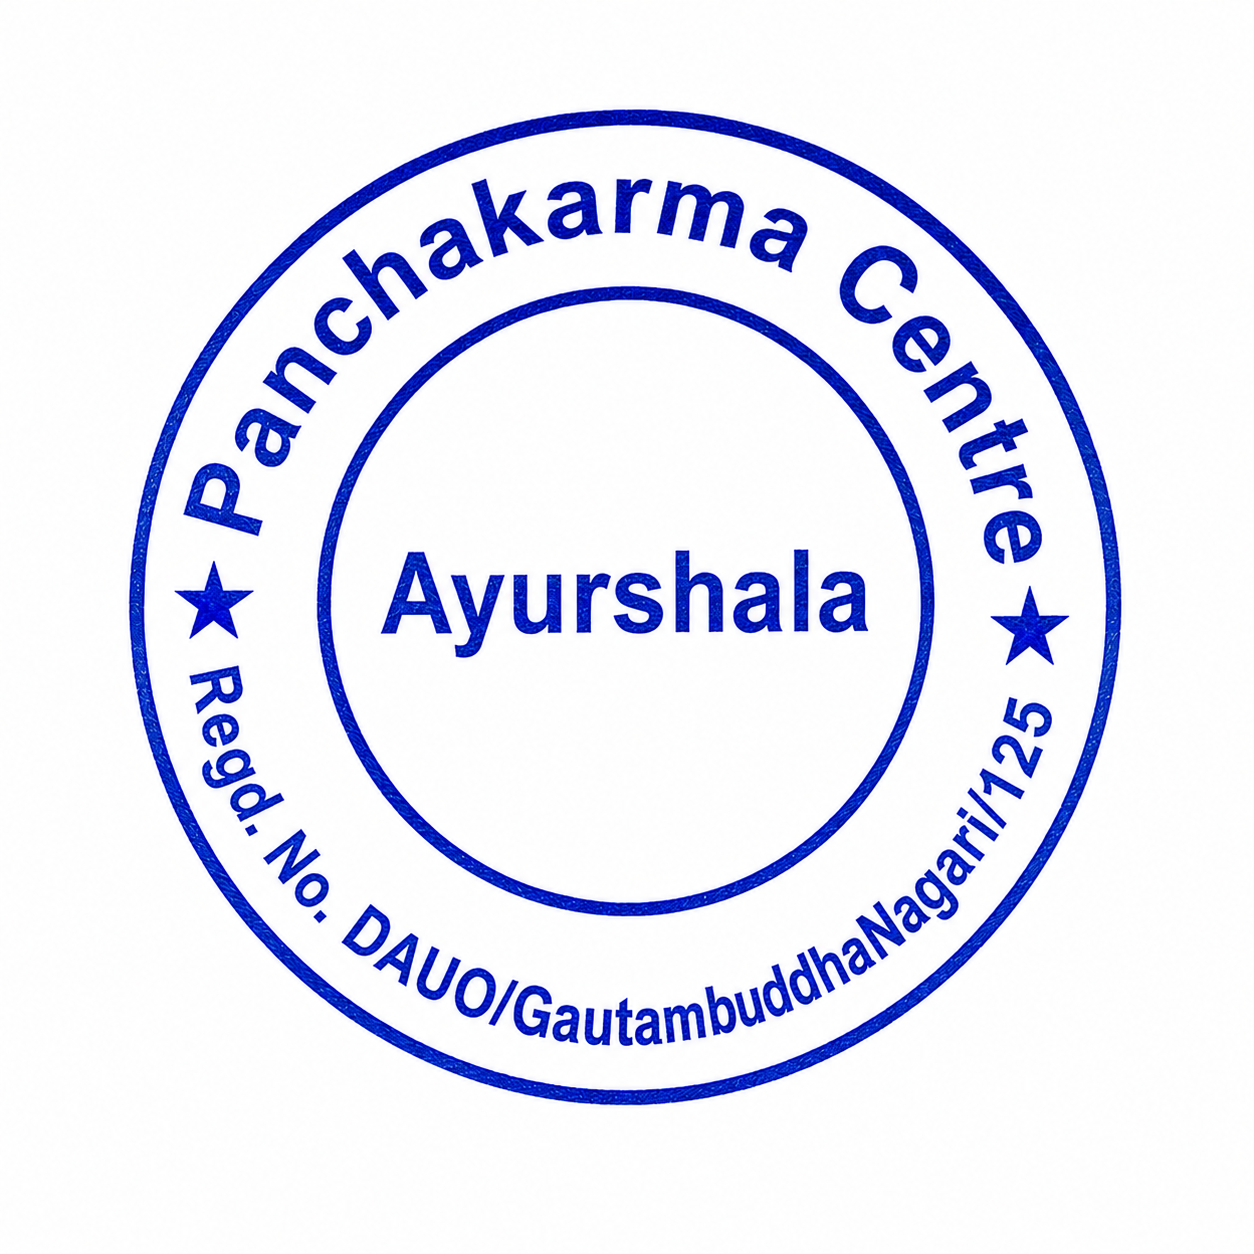
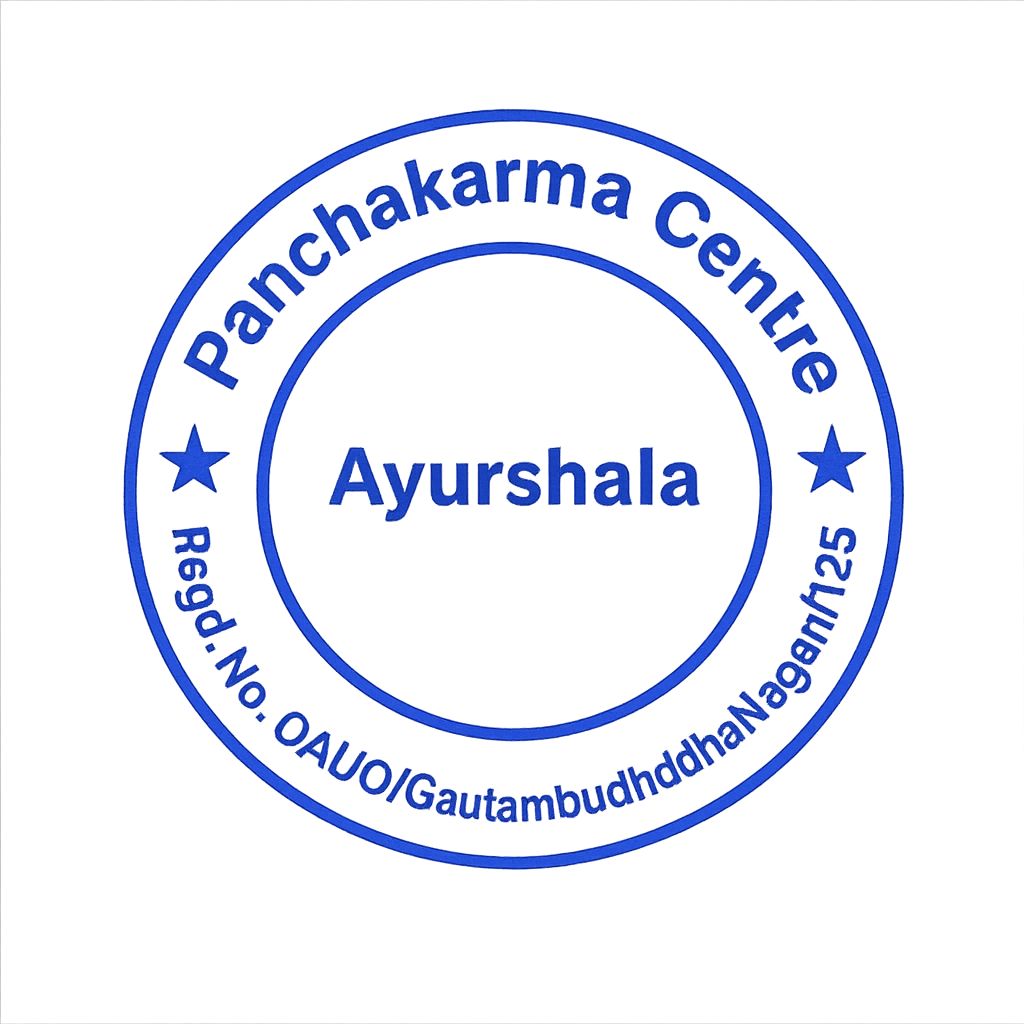
Fix A4 border: extend to full page with footer at bottom
Page Container (.page):
✅ Fixed height: 273mm (A4 printable: 297mm - 24mm margins)
✅ border: 2px solid #f97316 on ALL sides
✅ padding: 16mm safe area inside border
✅ display: flex, flex-direction: column (for layout control)

Layout Structure:
✅ .header: flex-shrink: 0 (stays at top)
✅ .content: flex: 1 (fills available space)
✅ .footer: margin-top: auto, flex-shrink: 0 (pushed to bottom)

Result:
✅ Border extends to bottom of A4 page (273mm height)
✅ Footer stays at bottom with padding
✅ Content fills middle area
✅ Border is complete rectangle on every page
✅ No orphaned borders after content

Last Page:
✅ height: auto, min-height: 273mm (fills or grows if needed)
✅ Footer always at bottom

Stamp Integration:
✅ Stamp renders below 'Dr. Sanjay Yadav'
✅ New Stamp.png image loaded

Changed region(s): [[0.0938, 0.0625, 0.9062, 0.9062], [0.3125, 0.4375, 0.6875, 0.5312]]

diff --git a/app/api/admin/discharge-summary-pdf/route.ts b/app/api/admin/discharge-summary-pdf/route.ts
@@ -207,24 +207,28 @@ function buildDischargeSummaryHtml(summary: any, logoDataUrl: string, stampDataU
     .page {
       box-sizing: border-box;
       width: 100%;
-      min-height: calc(297mm - 20mm);
+      height: 273mm;
       border: 2px solid #f97316;
       padding: 16mm;
       background: #fff;
       position: relative;
       page-break-after: always;
       page-break-inside: avoid;
+      display: flex;
+      flex-direction: column;
     }
 
     .page:last-child {
       page-break-after: auto;
-      min-height: auto;
+      height: auto;
+      min-height: 273mm;
     }
 
     /* Header */
     .header {
       text-align: center;
       margin-bottom: 0;
+      flex-shrink: 0;
     }
 
     .logo {
@@ -381,18 +385,23 @@ function buildDischargeSummaryHtml(summary: any, logoDataUrl: string, stampDataU
       word-break: break-word;
     }
 
-    /* Content area - normal block flow for page breaks */
+    /* Content area - flex to fill space, push footer to bottom */
     .content {
-      display: block;
+      flex: 1;
+      display: flex;
+      flex-direction: column;
+      min-height: 0;
+      overflow: visible;
     }
 
-    /* Footer */
+    /* Footer - stays at bottom */
     .footer {
-      margin-top: 30px;
+      margin-top: auto;
       display: grid;
       grid-template-columns: 1fr 1fr;
       gap: 40px;
       font-size: 9px;
+      flex-shrink: 0;
     }
 
     .signature-block {
